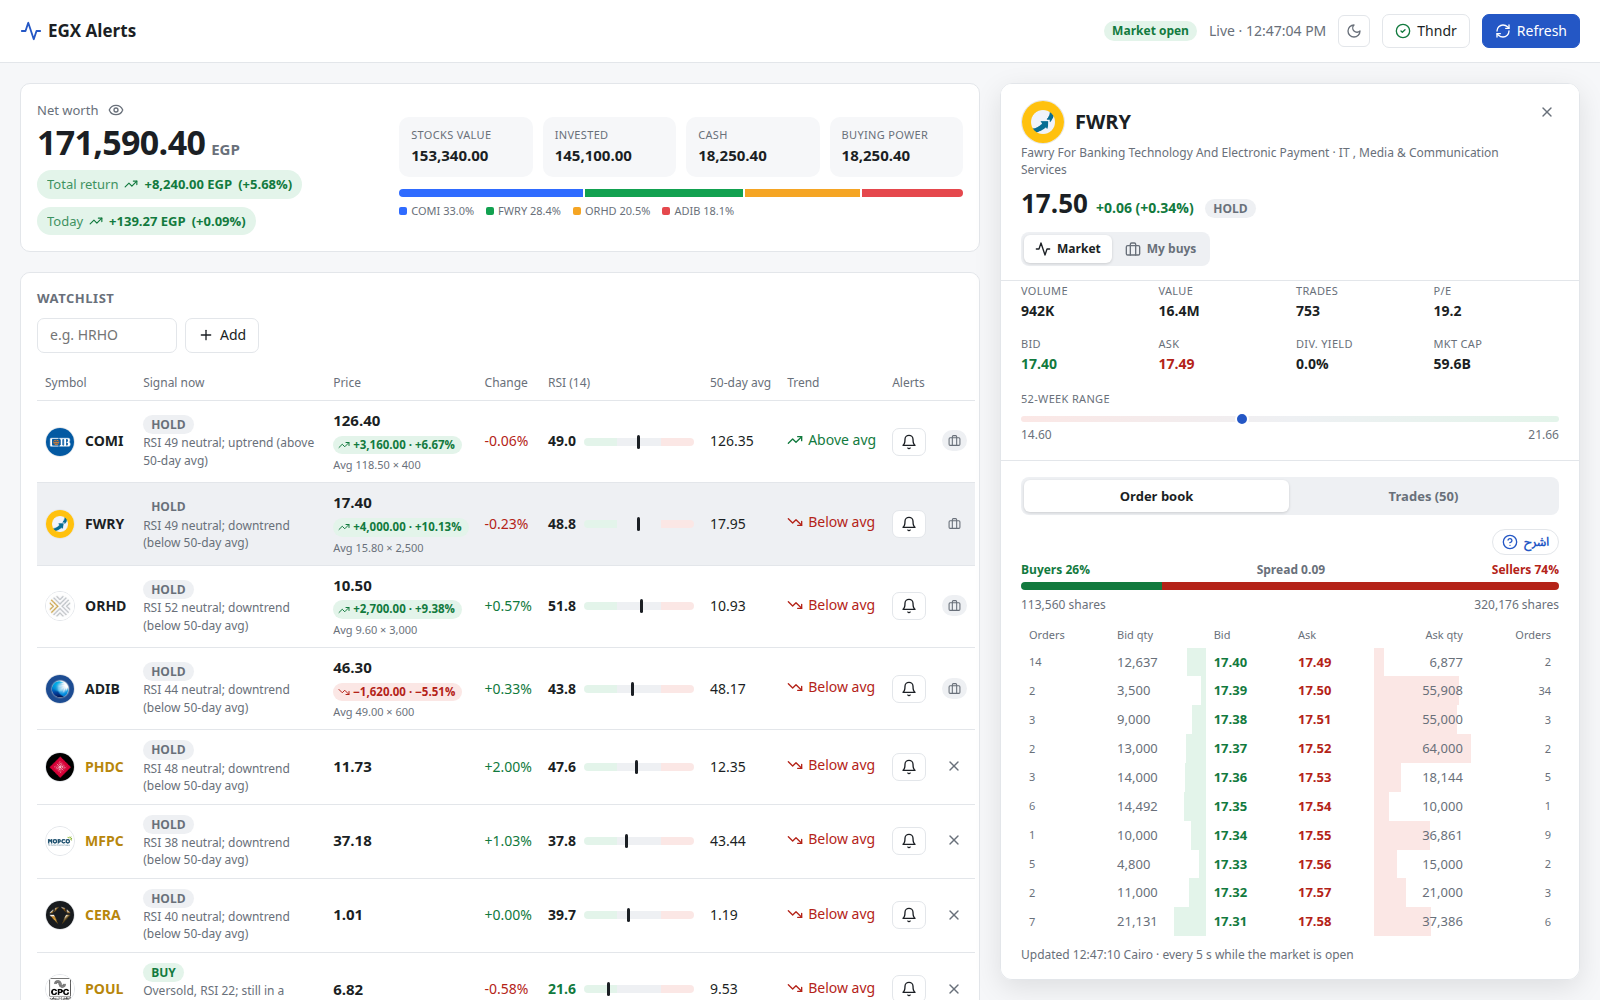
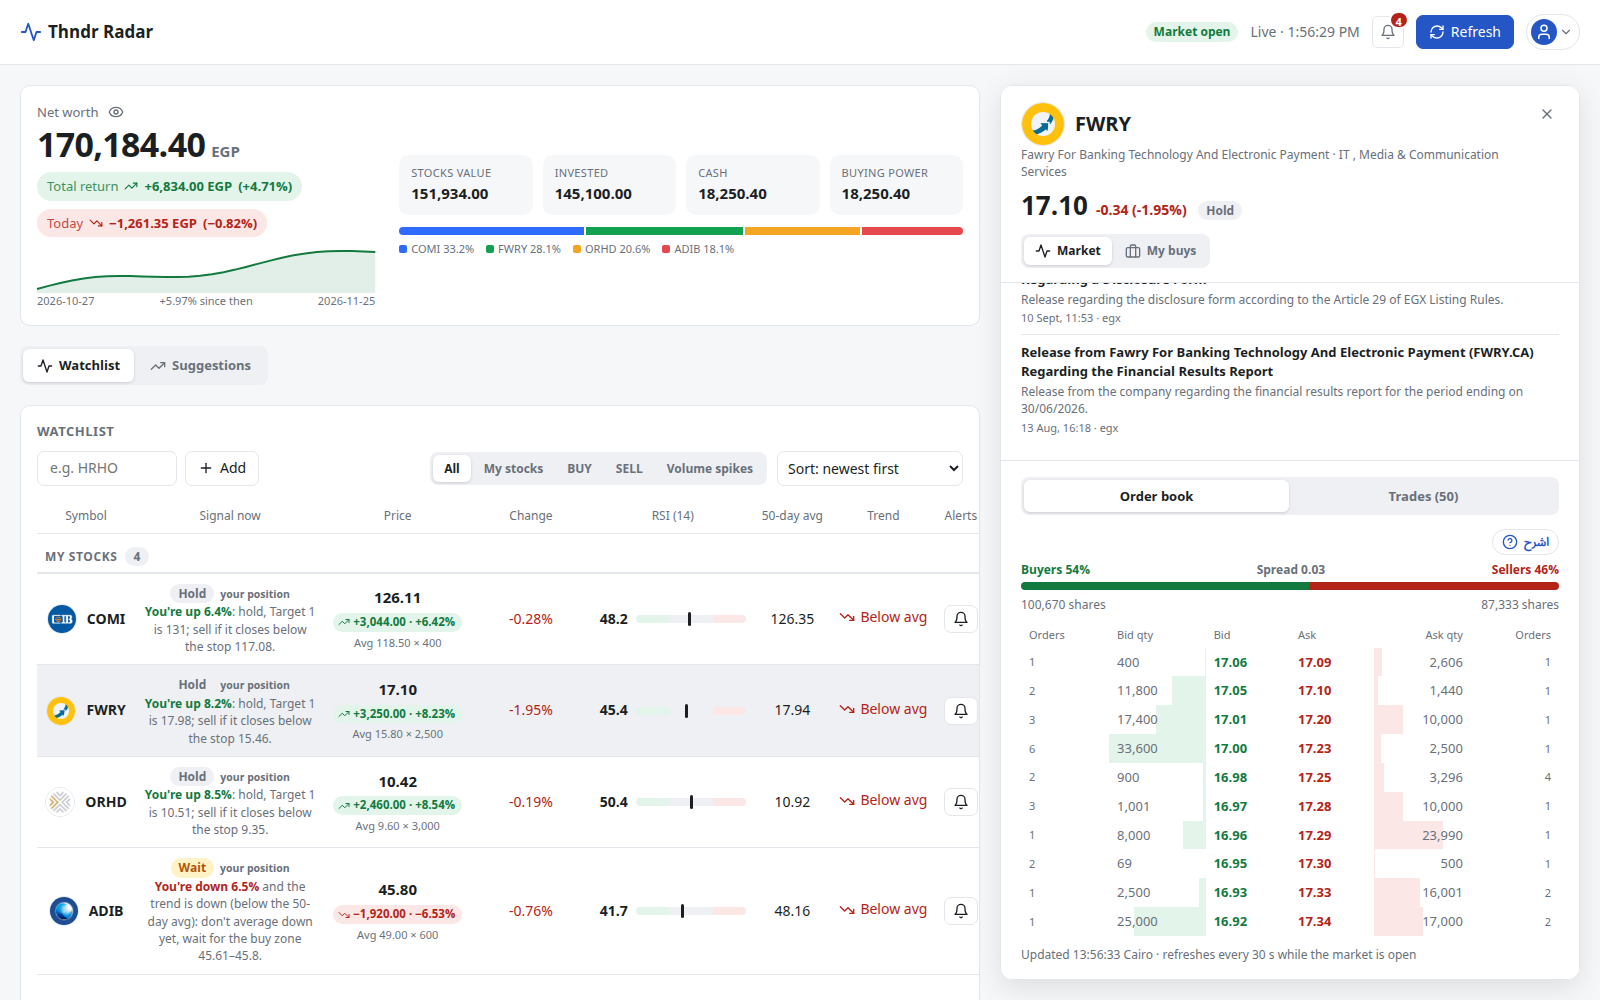
README: new screenshots with demo data (English/Arabic, light/dark), feature list; Arabic clock and Change column fixes

diff --git a/index.html b/index.html
@@ -216,7 +216,7 @@
   [dir="rtl"] td.num, [dir="rtl"] .pnl, [dir="rtl"] .chip .money, [dir="rtl"] .nw, [dir="rtl"] .v, [dir="rtl"] .big, [dir="rtl"] .chg, [dir="rtl"] .num { unicode-bidi: isolate; direction: ltr; }
   [dir="rtl"] .shead .up, [dir="rtl"] .shead .down { unicode-bidi: isolate; direction: ltr; text-align: left; }
   [dir="rtl"] .slevels b, [dir="rtl"] .slevels .up, [dir="rtl"] .slevels .down,
-  [dir="rtl"] .lvl .v, [dir="rtl"] .lvl .d, [dir="rtl"] .chip > span:not(.k), [dir="rtl"] td.up, [dir="rtl"] td.down { unicode-bidi: isolate; direction: ltr; display: inline-block; }
+  [dir="rtl"] .lvl .v, [dir="rtl"] .lvl .d, [dir="rtl"] .chip > span:not(.k) { unicode-bidi: isolate; direction: ltr; display: inline-block; }
   [dir="rtl"] aside { right: auto; left: 20px; transform: translateX(calc(-100% - 40px)); }
   [dir="rtl"] body.side-open aside { transform: none; }
   [dir="rtl"] body.side-open main, [dir="rtl"] body.side-open footer { margin-right: 0; margin-left: 600px; }
@@ -542,7 +542,7 @@ function trText(t) {
   const s = String(t), k = s.trim();
   if (AR[k]) return s.replace(k, AR[k]);
   // Numbers inside Arabic sentences are wrapped in left-to-right isolates (U+2066…U+2069) so "+28.7%" stays "+28.7%".
-  const iso = (x) => x.replace(/[\u2066\u2069]/g, '').replace(/([−+\-]?\d[\d.,]*(?:\/\d+)?%?×?(?:\s?[–-]\s?\d[\d.,]*)?)/g, '\u2066$1\u2069');
+  const iso = (x) => x.replace(/[\u2066\u2069]/g, '').replace(/(\d{1,2}:\d{2}(?::\d{2})?\s?[AP]M|[−+\-]?\d[\d.,]*(?:\/\d+)?%?×?(?:\s?[–-]\s?\d[\d.,]*)?)/g, '\u2066$1\u2069');
   for (const [rx, fn] of AR_RX) { const m = k.match(rx); if (m) return s.replace(k, iso(fn(...m))); }
   return s;
 }

diff --git a/README.md b/README.md
@@ -7,17 +7,21 @@
 
 ## Screenshots
 
-![Net worth, per-stock profit/loss and the watchlist with signals, RSI and trend](docs/screenshots/main.png)
+**English · light**: net worth, your stocks first (P&L, average price, advice for your position), then the stocks you watch.
+![Watchlist in English, light mode](docs/screenshots/main.png)
 
-| Trade plan, chart and key stats | Order book with buyer/seller pressure |
+**العربية (من اليمين للشمال)**: the whole app in Arabic, with the layout mirrored.
+![Watchlist in Arabic, right-to-left](docs/screenshots/arabic.png)
+
+| Dark mode + stock sidebar (trade plan, live chart) | Suggestions: short term · مضاربة and long term · استثمار |
 |---|---|
-| ![Sidebar with trade plan and chart](docs/screenshots/side.png) | ![Order book](docs/screenshots/book.png) |
-| **اشرح: plain-Arabic explanations** | **Per-stock buy/sell alerts** |
-| ![Arabic explanation of the trade plan](docs/screenshots/arabic.png) | ![Alerts dialog](docs/screenshots/alerts.png) |
-| **Dark mode** | |
-| ![Dark mode](docs/screenshots/dark.png) | |
+| ![Dark mode with the stock sidebar](docs/screenshots/dark.png) | ![Suggestions tab](docs/screenshots/suggestions.png) |
+| **Suggestions in Arabic · dark** | **Order book with buyer/seller pressure** |
+| ![Suggestions in Arabic, dark mode](docs/screenshots/suggestions-ar-dark.png) | ![Order book](docs/screenshots/book.png) |
+| **اشرح: plain-Arabic explanations with the stock's numbers** | **Profile menu: account, notifications, phone, theme, language** |
+| ![Arabic explanation of the trade plan](docs/screenshots/explain.png) | ![Profile menu](docs/screenshots/menu.png) |
 
-<sub>Screenshots use a made-up demo portfolio; no real account data is shown.</sub>
+<sub>All screenshots use a made-up demo portfolio (holdings, average prices, cash, alerts and history are fake). No real account data is shown.</sub>
 
 ## Features
 
@@ -54,7 +58,16 @@
 - **Sort and filter** the watchlist (my stocks, BUY/SELL, volume spikes; by P&L, RSI, change…).
 - **Net-worth history**, recorded once a day and charted in the card.
 - **Phone access (optional):** open the app on your phone over the same Wi-Fi with a secret QR link. It's off by default, can only be turned on from the computer, and making a new link locks out old ones.
-- **Dark / light mode** toggle in the top bar.
+- **Suggestions tab**: short-term (مضاربة: days to weeks) and long-term (استثمار: months to years) picks.
+  - Built from Thndr's screeners, charts (trend, RSI, volume, breakout, backtest), ThndrX sector ratings, dividends and news.
+  - Each pick shows its entry, stop-loss and target (or buy zone), plus every ✓/✗ reason.
+  - Expert/analyst content (Thndr's paid advisory) is not available to the app.
+- **One answer per stock**: for stocks you own, *Signal now* is the advice for **your position** (Sell / Take profit / Average down / Wait / Hold). It's the same everywhere: the table, the sidebar and the alerts.
+- **Automatic alerts for every stock on the list**, with no setup: the buy zone is reached, the stop-loss is hit, Target 1 is reached, the price is back to your average, or the advice for your position changes.
+- **🔔 Bell** with unread alerts. **Phone push** via the free ntfy app (or Telegram), set up from the app.
+- **Your stocks first** (newest buy on top), then the stocks you watch, in separate sections.
+- **العربية / English** with a full right-to-left layout. Hover over *Signal now*, *RSI* and *Trend* for Arabic explanations.
+- **Dark / light mode** and all settings live in the **profile menu** in the top bar.
 - **اشرح buttons** explain every section in simple Egyptian Arabic, using the stock's real numbers.
 
 ## Download
